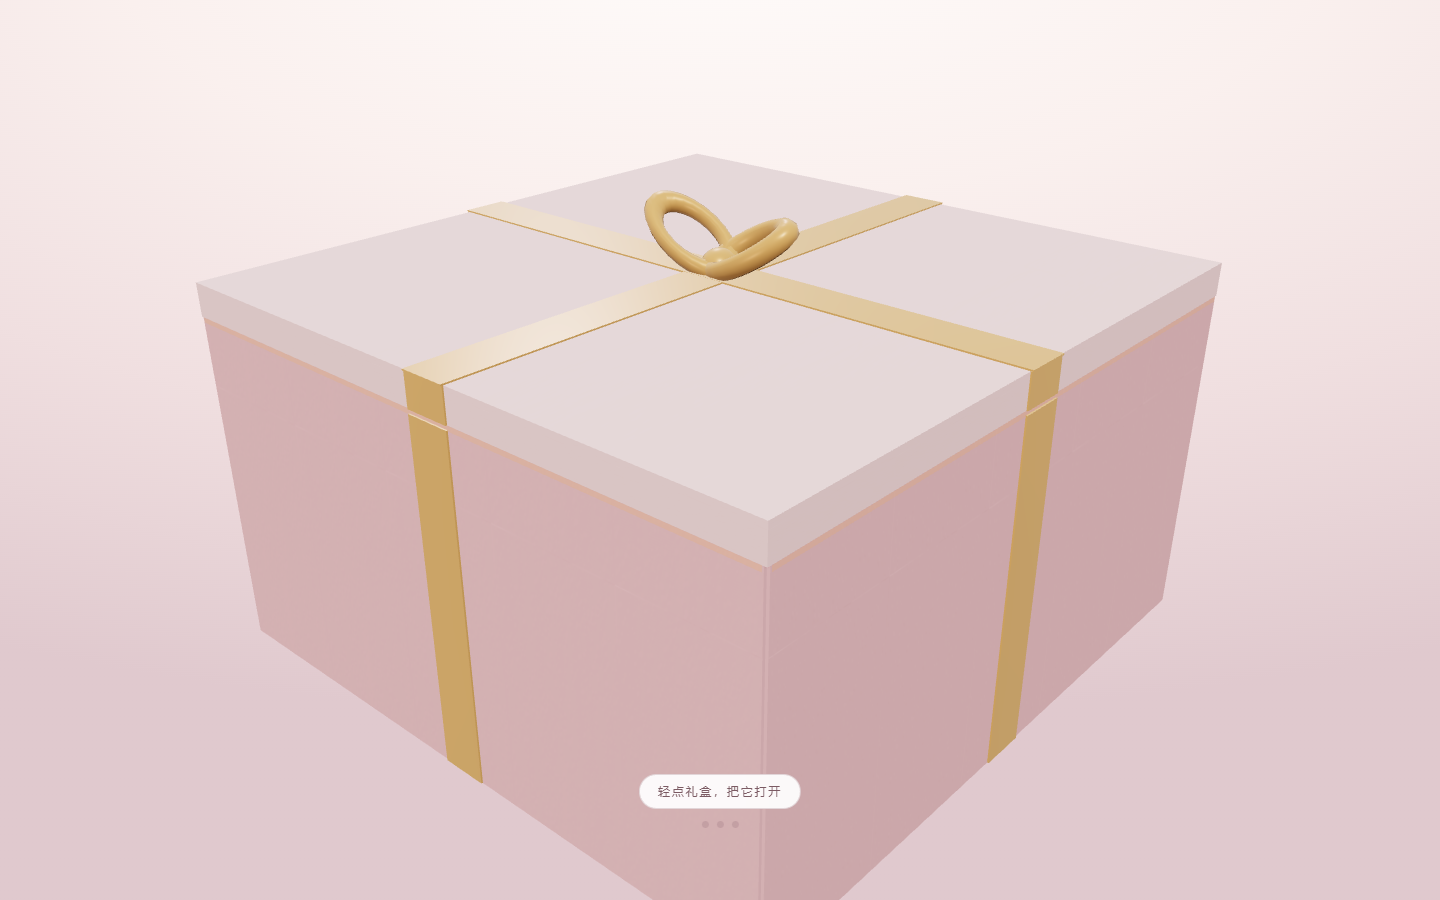
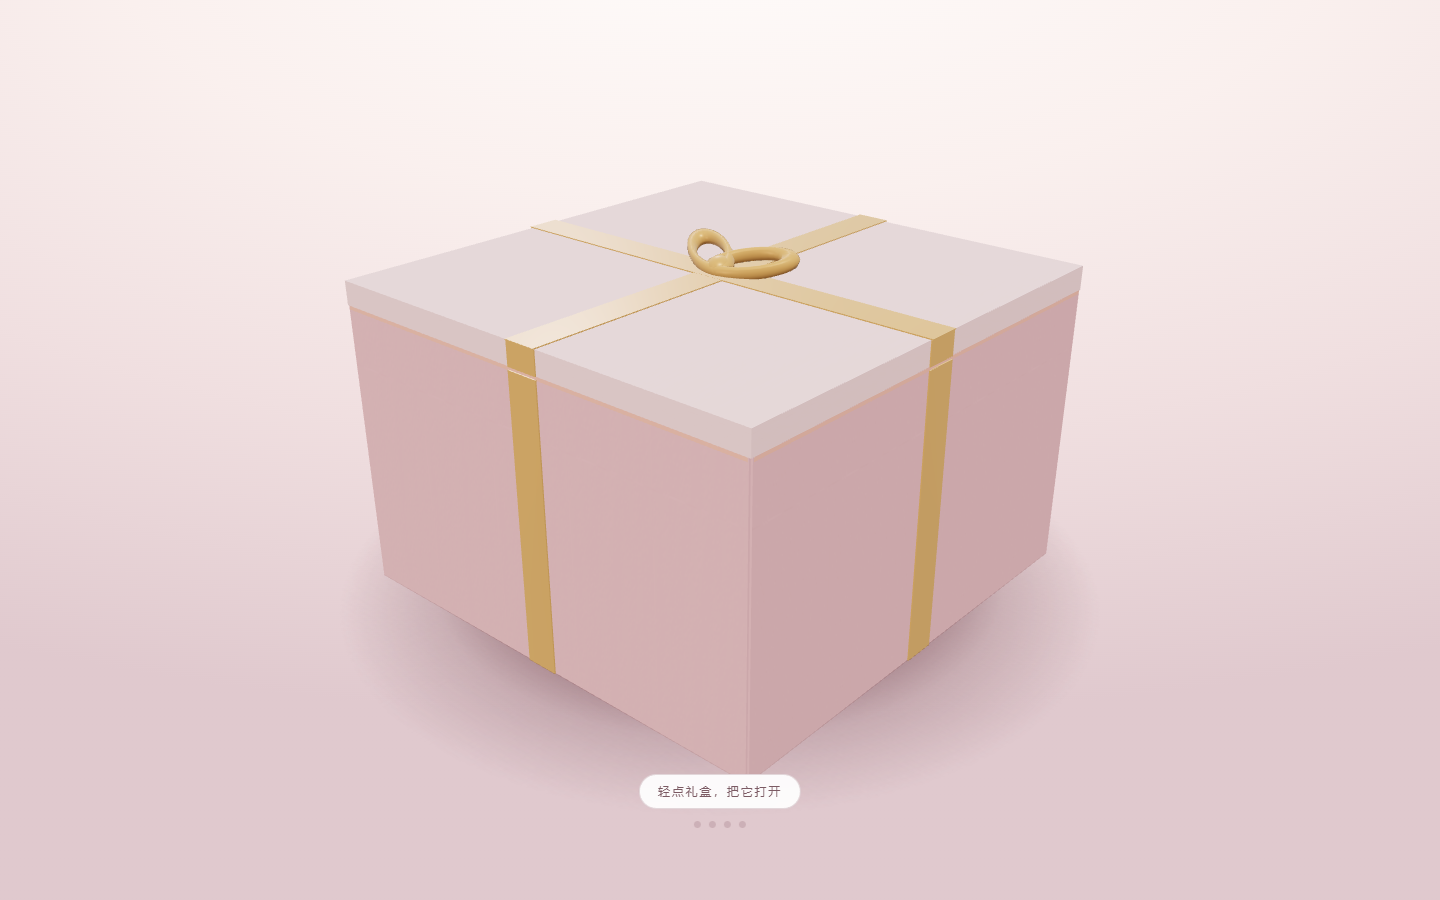
Fix gift box proportions and opening framing
- Box height now follows a real cake-box ratio (1.6:1) instead of just wrapping the cake
- Opening shot keeps the whole box in frame on any aspect
- resize() no longer resets the camera to the cake framing while the box is still closed
- Bow wings spread in the horizontal plane so it reads as a bow, not a knot
- Soft contact shadow under the box

diff --git a/index.html b/index.html
@@ -1663,10 +1663,11 @@ const gift = {
   const topY  = Math.max(2.2, bb.max.y);
   const W = halfX * 2 + 0.66;
   const D = halfZ * 2 + 0.66;
-  const H = topY + 0.18;
+  /* 真实蛋糕盒大约 1.6:1，只按蛋糕高度算会得到一个扁箱子，所以给个下限 */
+  const H = Math.max(topY + 0.18, W * 0.6);
   const capH = 0.36;
   gift.W = W; gift.D = D; gift.H = H; gift.capH = capH;
-  gift.centerY = H * 0.56;
+  gift.centerY = H * 0.45;
 
   /* 纸盒：完全哑光的浅粉卡纸，靠一点极淡的法线给出"有纤维"的手感 */
   const matPaper = new THREE.MeshStandardMaterial({
@@ -1765,11 +1766,12 @@ const gift = {
   const loopGeo = new THREE.TorusGeometry(0.46, 0.115, 8, 24);
   [-1, 1].forEach(sx => {
     const wing = new THREE.Group();
-    wing.rotation.z = sx * 0.5;
+    wing.rotation.y = sx * 0.55;                // 在水平面里张开，俯视才是"两片叶子"
+    wing.rotation.z = sx * 0.14;                // 一点点上翘，别完全贴平
     const m = new THREE.Mesh(loopGeo, matRibCap);
-    m.rotation.x = -Math.PI / 2 + 0.42;
-    m.scale.set(1.14, 0.58, 1);
-    m.position.x = sx * 0.44;
+    m.rotation.x = -Math.PI / 2 + 0.3;
+    m.scale.set(1.2, 0.52, 1);
+    m.position.x = sx * 0.46;
     wing.add(m);
     bow.add(wing);
   });
@@ -1795,6 +1797,27 @@ const gift = {
   glow.position.y = H + 0.006;
   gift.root.add(glow);
   gift.glow = glow;
+
+  /* 落地阴影：盒子底面就贴着地，自身投影被自己压住了，单独补一片柔影才不像浮着 */
+  const shCv = document.createElement('canvas');
+  shCv.width = shCv.height = 256;
+  const shg = shCv.getContext('2d');
+  const shr = shg.createRadialGradient(128, 128, 6, 128, 128, 128);
+  shr.addColorStop(0, 'rgba(108,68,76,.55)');
+  shr.addColorStop(.55, 'rgba(108,68,76,.5)');
+  shr.addColorStop(.74, 'rgba(108,68,76,.2)');
+  shr.addColorStop(1, 'rgba(108,68,76,0)');
+  shg.fillStyle = shr; shg.fillRect(0, 0, 256, 256);
+  const shTex = new THREE.CanvasTexture(shCv);
+  shTex.colorSpace = THREE.SRGBColorSpace;
+  const shadow = new THREE.Mesh(
+    new THREE.PlaneGeometry(W * 1.58, D * 1.58).rotateX(-Math.PI / 2),
+    new THREE.MeshBasicMaterial({ map: shTex, transparent: true, opacity: 1, depthWrite: false })
+  );
+  shadow.position.y = 0.012;
+  shadow.renderOrder = 3;
+  gift.root.add(shadow);
+  gift.shadow = shadow;
 
   scene.add(gift.root);
 
@@ -1903,9 +1926,9 @@ function giftRadius(){
   const t = Math.tan(camera.fov * Math.PI / 360);
   const hw = Math.hypot(gift.W, gift.D) * 0.5 + 0.2;   // 水平半对角线
   const hh = Math.max(gift.H * 0.66, 2.8);             // 竖向要装下盒身
-  const rV = hh / Math.max(t * 0.80, 0.04);
-  const rH = hw / Math.max(t * aspect * 0.80, 0.04);
-  return clamp(Math.max(rV, rH) * 1.10, 8, 30);
+  const rV = hh / Math.max(t * 0.72, 0.04);
+  const rH = hw / Math.max(t * aspect * 0.72, 0.04);
+  return clamp(Math.max(rV, rH) * 1.45, 8, 36);
 }
 
 const _confDummy = new THREE.Object3D();
@@ -2005,6 +2028,7 @@ function updateGift(dt, t){
      只剩运动留下的那个印象，不让它们挡住刚长出来的蛋糕 */
   gift.capMats.forEach(m => { m.opacity = 1 - clamp((b - 0.02) / 0.18, 0, 1); });
   gift.wallMats.forEach(m => { m.opacity = 1 - clamp((b - 0.04) / 0.20, 0, 1); });
+  if (gift.shadow) gift.shadow.material.opacity = Math.max(0, 1 - b * 4);
 
   /* 蛋糕开始长出来以后，镜头往蛋糕的视点回落 */
   const back = clamp((b - 0.1) / 0.5, 0, 1);
@@ -2905,15 +2929,17 @@ function resize(){
   camera.fov = w / h < 0.85 ? 58 : 38;
   camera.updateProjectionMatrix();
   if (!userZoomed){
+    if (!gift.done){
+      /* 礼盒还没拆完（含爆开中）：取景按盒子算，别被"蛋糕那套"顶掉 */
+      const bk = gift.cakeIn ? clamp((gift.burstT - 0.1) / 0.5, 0, 1) : 0;
+      const gr = giftRadius() * (1 - 0.06 * bk);
+      orbit.tRadius = gr; orbit.radius = gr;
+      orbit.target.y = orbit.tTarget.y = gift.centerY + (1.34 - gift.centerY) * bk;
+      return;
+    }
     const r = fitRadius();
     orbit.tRadius = r;
     if (introP >= 1) orbit.radius = r;
-    /* 礼盒还在的时候按盒子取景：盒子比蛋糕矮但更宽，用 fitRadius 会偏紧 */
-    if (!gift.done && !gift.cakeIn){
-      const gr = giftRadius();
-      orbit.tRadius = gr; orbit.radius = gr;
-      orbit.target.y = orbit.tTarget.y = gift.centerY;
-    }
     /* 已经拆开时按进度重算取景，否则改窗口大小会把构图打回未拆的默认值 */
     if (explodeP > 0.001){
       followExplodeCamera(explodeP);
@@ -2987,6 +3013,10 @@ window.addEventListener('resize', resize);
     if (gift.burstT > 0.02) spawnConfetti();
     if (gift.burstT > 0.34) showWish();
     document.body.classList.add('still');      // 冻结点上别让 CSS 还在淡入
+    /* 相机直接落到该有的位置，别从默认距离慢慢蹭过来 —— 静态截图会抓到半路 */
+    const bk = clamp((gift.burstT - 0.1) / 0.5, 0, 1);
+    orbit.radius = orbit.tRadius = giftRadius() * (1 - 0.06 * bk);
+    orbit.target.y = orbit.tTarget.y = gift.centerY + (1.34 - gift.centerY) * bk;
   }
 
   /* ?focus=moon 直接聚焦某个部件（分享某一件、或者截图用） */
